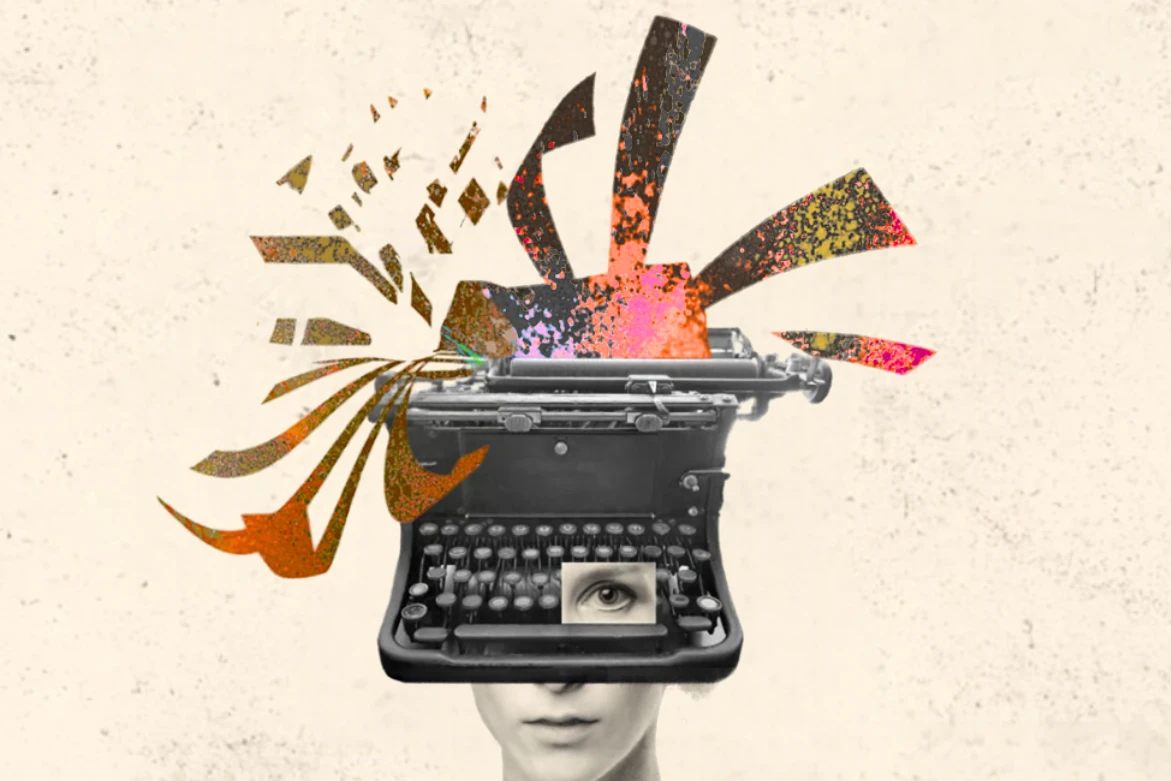
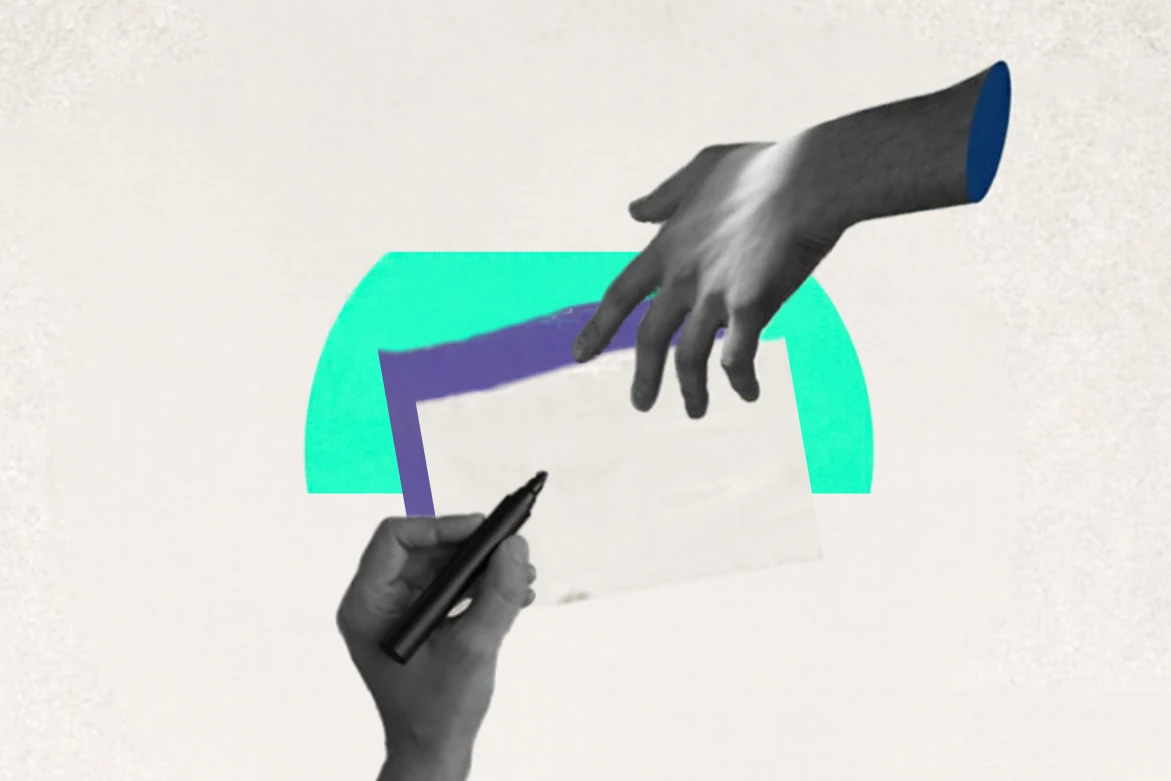
News hero: the hands-and-paper collage

diff --git a/index.html b/index.html
@@ -1564,7 +1564,7 @@ const srcTile = n => { n=n==="BCE"?"ECB":n; const ab=ABBR[n]||String(n||"?").sli
 /* the News tab: today's stories for everyone, to read at the source. Picking stories for content happens only in the Studio (vNews with pick) */
 function vNewsPage(){
   const day=S.news.find(n=>n.id===st.newsDay)||latestDay(), items=day?.items||[], srcs=new Set(items.map(i=>i.source).filter(Boolean));
-  return heroFrame({label:"Today's news", ribbon:"Today's money news, sorted. · ", photo:"assets/news-hero.webp", photoPos:"50% 58%", thumb:"assets/news-thumb.webp",
+  return heroFrame({label:"Today's news", ribbon:"Today's money news, sorted. · ", photo:"assets/news-hero.webp", photoPos:"50% 50%", thumb:"assets/news-thumb.webp",
     title:"Today's money news,", em:"sorted for you.",
     cta:{text:"Read the stories", attrs:'data-jump=".newslist"'},
     text:"Every weekday morning and afternoon PaperMint gathers the money stories from trusted sources and sorts them by topic. Filter by topic or source and open any story at the original.",

diff --git a/src/app.html b/src/app.html
@@ -1365,7 +1365,7 @@ const srcTile = n => { n=n==="BCE"?"ECB":n; const ab=ABBR[n]||String(n||"?").sli
 /* the News tab: today's stories for everyone, to read at the source. Picking stories for content happens only in the Studio (vNews with pick) */
 function vNewsPage(){
   const day=S.news.find(n=>n.id===st.newsDay)||latestDay(), items=day?.items||[], srcs=new Set(items.map(i=>i.source).filter(Boolean));
-  return heroFrame({label:"Today's news", ribbon:"Today's money news, sorted. · ", photo:"assets/news-hero.webp", photoPos:"50% 58%", thumb:"assets/news-thumb.webp",
+  return heroFrame({label:"Today's news", ribbon:"Today's money news, sorted. · ", photo:"assets/news-hero.webp", photoPos:"50% 50%", thumb:"assets/news-thumb.webp",
     title:"Today's money news,", em:"sorted for you.",
     cta:{text:"Read the stories", attrs:'data-jump=".newslist"'},
     text:"Every weekday morning and afternoon PaperMint gathers the money stories from trusted sources and sorts them by topic. Filter by topic or source and open any story at the original.",
